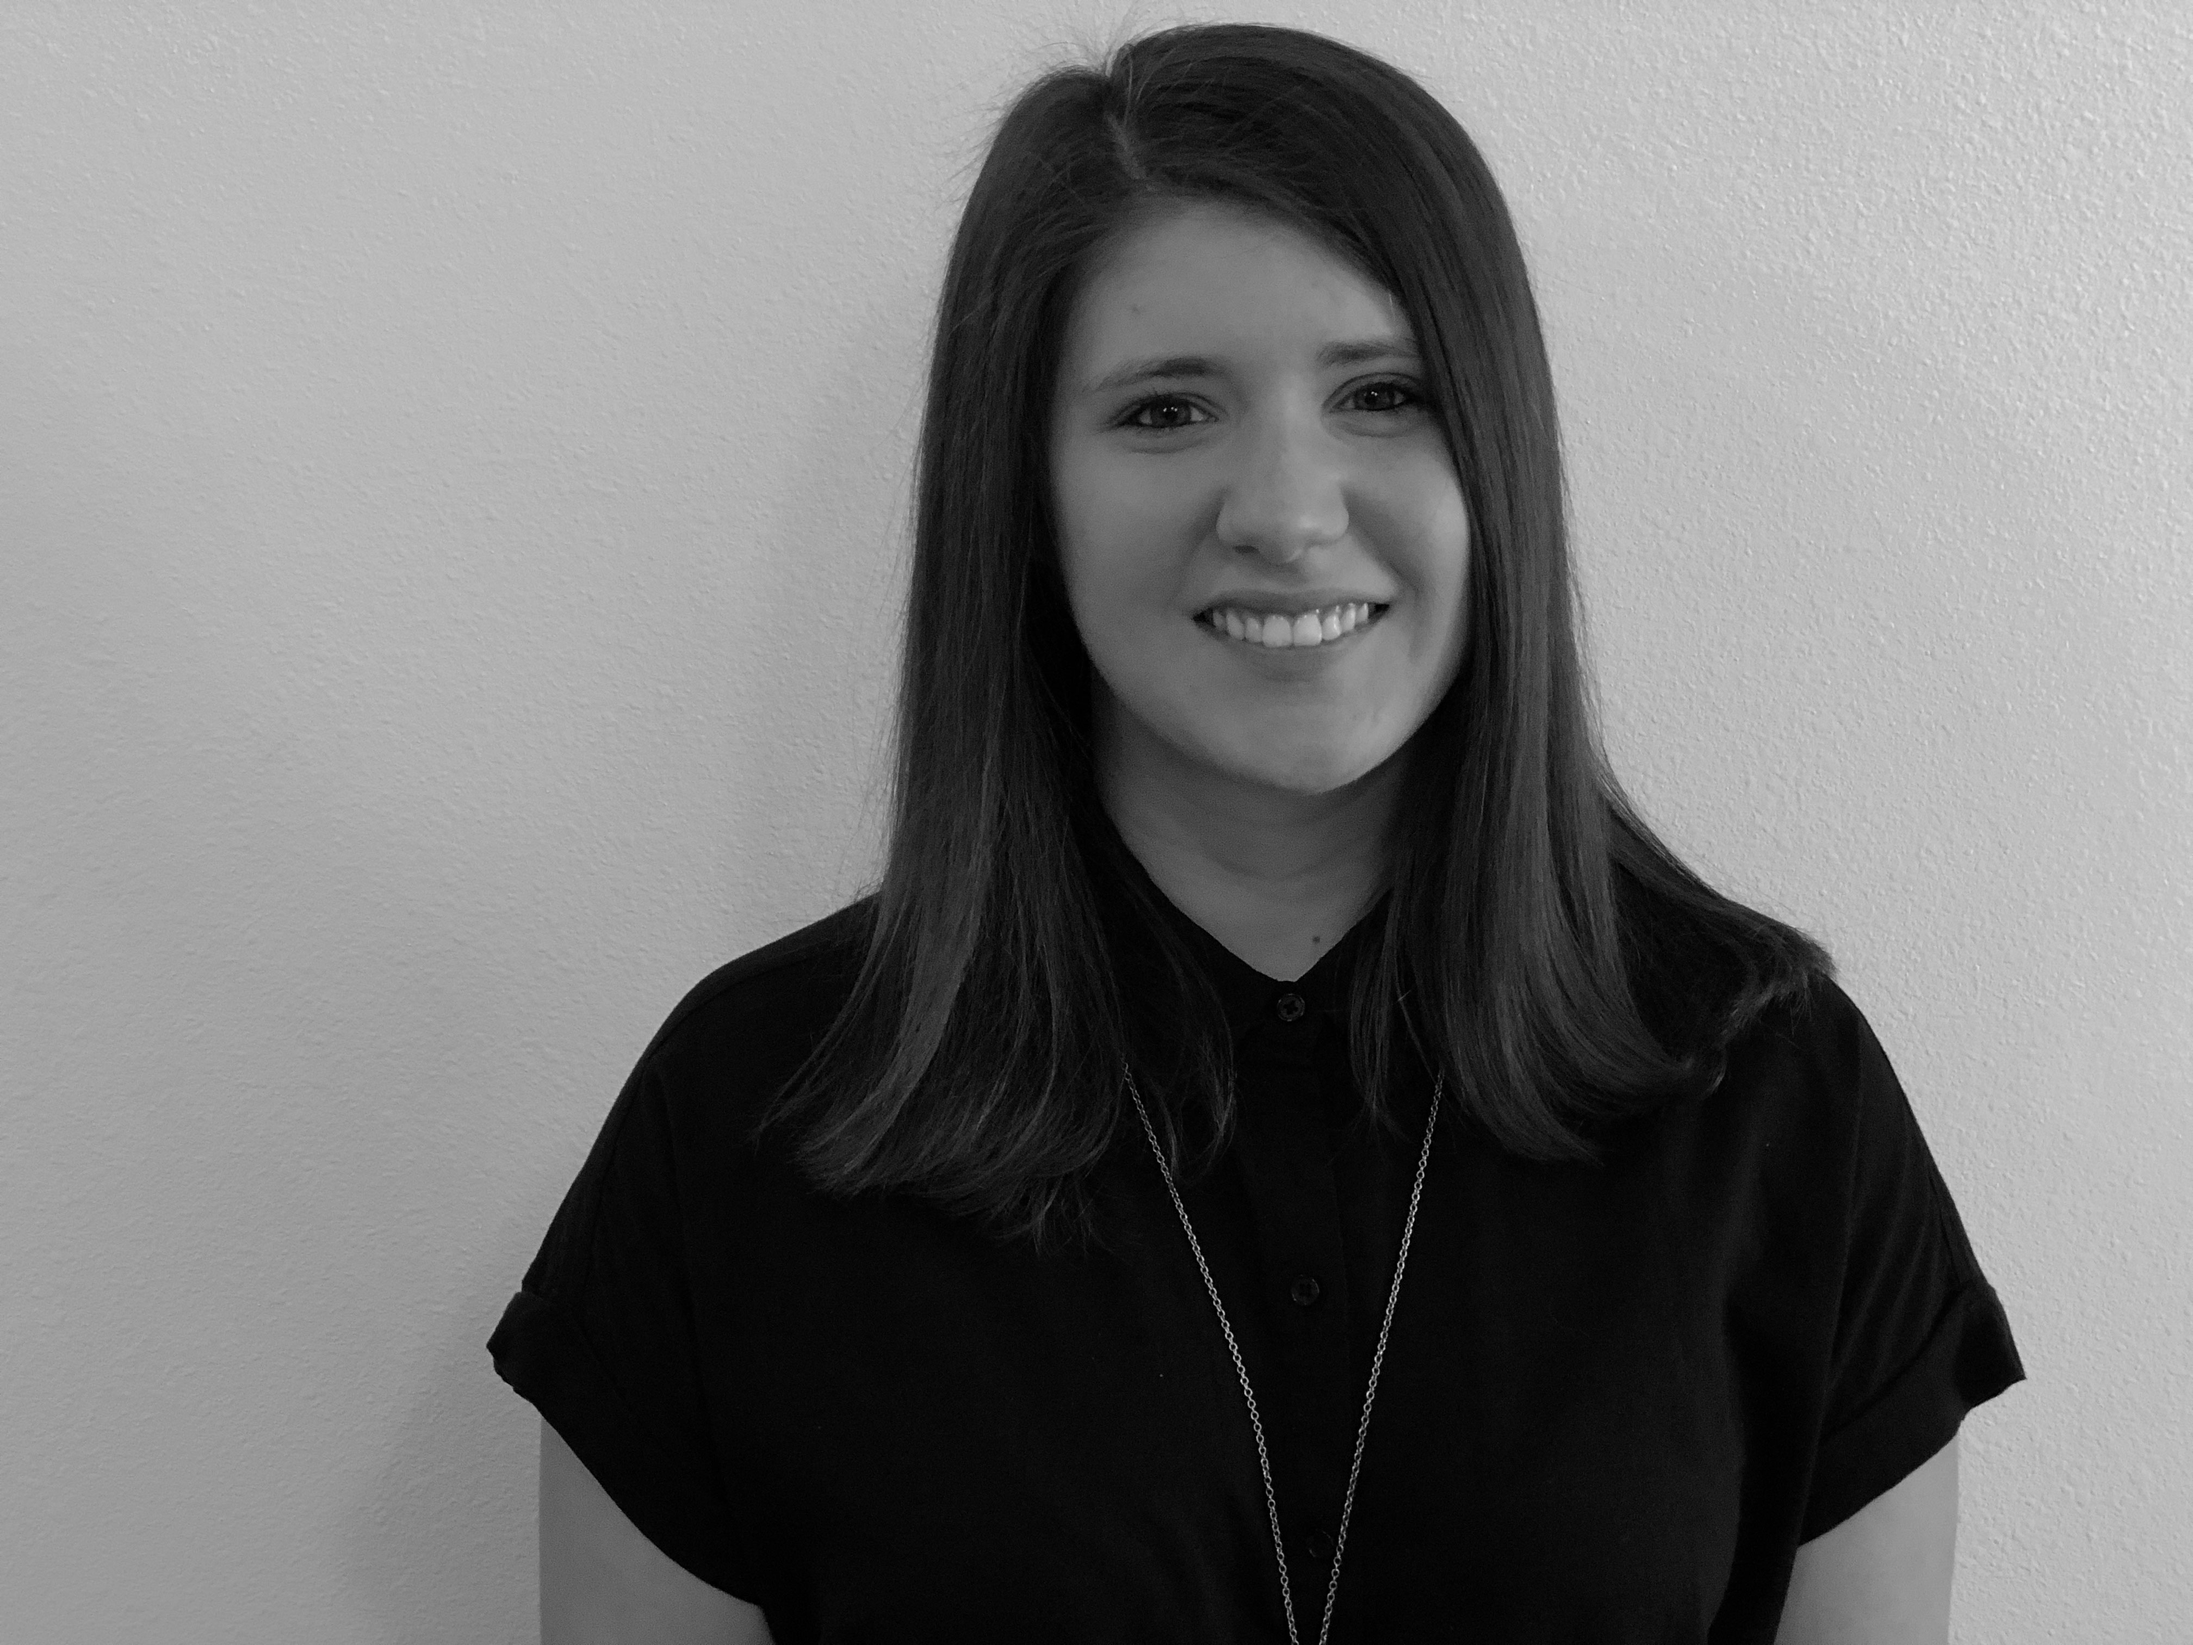
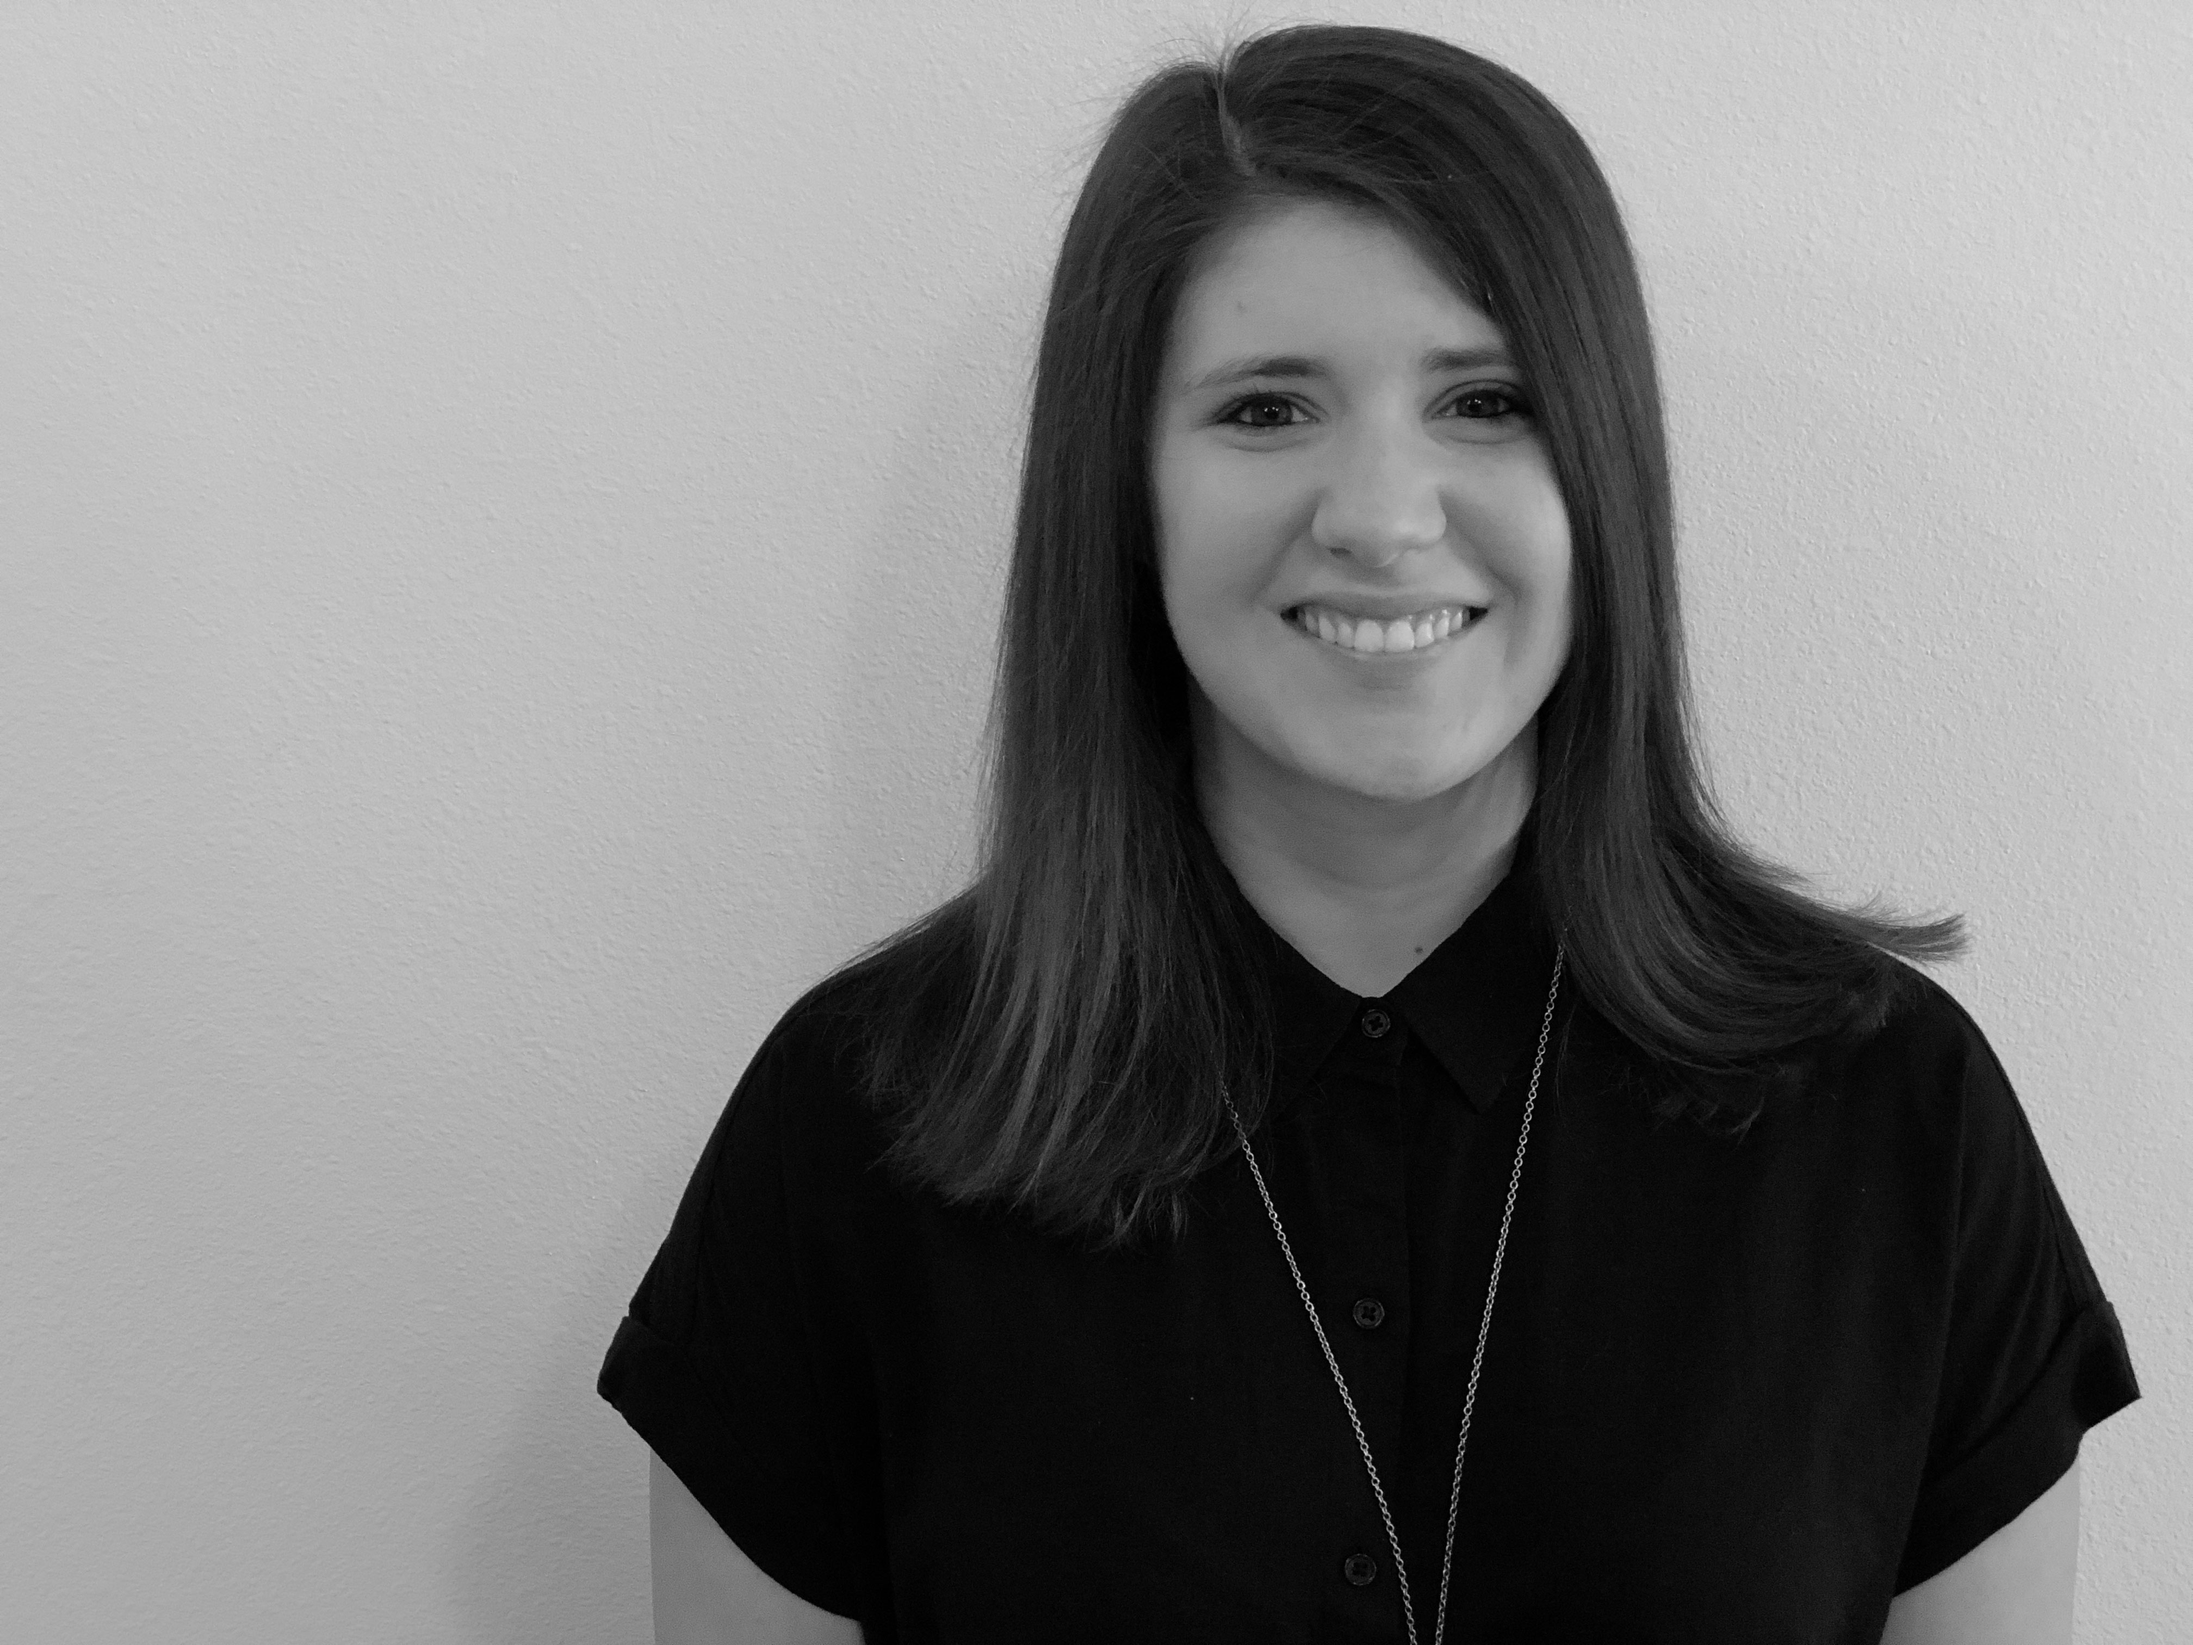
new about photo and changed all fonts to Montserrat

diff --git a/about.html b/about.html
@@ -98,89 +98,36 @@
     </div>
   </header>
 
-
-
-  <section id="hero" class="hero mobile-background" href="#hero">
+  <section id="about-hero" class="hero mobile-background" href="#hero">
     <div class="container blanket">
       <div class="row flex-container">
-        <div class="col-lg-12">
+        <div class="col-lg-7 col-md-7 col-sm-12">
           <div class="hero-text">
-            <h1 class="section-title">Haley Hankins <br> <span>Web Design</span></h1>
+            <h1 class="section-title">Hey!<span>I'm Haley.</span> </h1>
+            <!-- <p>I also have a bottom lip, despite what this image suggests.</p> -->
           </div>
         </div>
       </div>
     </div>
-    </div>
   </section>
 
-  <section id="about">
+  <section id="about-aboutPage">
     <div class="container about-box" data-aos="zoom-in">
-      <div class="row">
-        <div class="col-lg-12 box">
-          <h1>I'm Haley Hankins and I Design and Build Websites.</h1>
-        </div>
-      </div>
-    </div>
-  </section>
-
-  <section id="work">
-    <div class="container">
-      <h1>My Work</h1>
-      <div class="row">
-        <div class="col-lg-4">
-          <a href="pt.html"><img class="img-shrink" src="img/ptparenting-500.png" alt="Paul Tripp Parenting web page on multiple devices"></a>
-            <h2>Web Development + Landing Page Development</h2>
-        </div>
-        <div class="col-lg-4">
-          <a href="5tips.html"><img class="img-shrink" src="img/5tips-500.png" alt="Clint Gresham's 5 Tips landing page on multiple devices"></a>
-          <h2>Web Development + Landing Page Development</h2>
-        </div>
-        <div class="col-lg-4 wonk">
-          <a href="dates.html"><img class="img-shrink" src="img/5dates-500.png" alt="5 Dates web page on multiple devices"></a>
-          <h2>Web Development+ Landing Page Development</h2>
-        </div>
-      </div>
-      <div class="row">
-
-        <!-- <div class="col-lg-6">
-          <img src="img/" alt="">
-        </div> -->
-      </div>
-    </div>
-
-  </section>
-  <!-- <section id="about">
-    <div class="container about-box" data-aos="zoom-in">
-      <div class="row">
-        <div class="col-lg-12 box">
-          <h1>I also enjoy a good beer</h1>
-        </div>
-      </div>
-    </div>
-  </section> -->
-
-  <section id="form">
-    <div class="container">
-      <h3 class="section-title">Contact</h3>
       <div class="row">
         <div class="col-lg-12">
-          <p>Feel free to reach out! I look forward to hearing from you.</p>
-          <form data-netlify="true" method="POST">
-            <input class="name-input" type="text" name="name" placeholder="Your Name">
-            <div class="form-email">
-              <input type="email" name="email" placeholder="Your Email">
-            </div>
-            <div class="form-text-area">
-              <textarea name="message" placeholder="Your Message"></textarea>
-            </div>
-            <div class="cta-section">
-              <button class="btn-primary" type="submit">Submit</button>
-            </div>
-          </form>
+          <h1>Hey</h1>
         </div>
       </div>
     </div>
   </section>
+
+
+  <section id="insta">
+    <h1>My Instagram Feed</h1>
+    <script src='https://embedsocial.com/js/iframe.js'></script> <iframe style='border: 0; width: 100%; height: 100%;' scrolling=no src='https://embedsocial.com/facebook_album/pro_instagram/85be029f0c63ff663f9af5e24a5e897346efe0d7'></iframe><script>iFrameResize();</script>
+  </section>
+
+
 
   <section id="footer">
     <div class="flex-container">

diff --git a/style.css b/style.css
@@ -414,13 +414,13 @@ Mobile Menu
 
 #about h1 {
   color: white;
-  font-family: 'Lora', serif;
+  font-family: 'Montserrat', sans-serif;
   font-size: 40px;
 }
 #work h1 {
   text-align: center;
   margin-top: 20px;
-  font-family: 'Lora', serif;
+  font-family: 'Montserrat', sans-serif;
   font-size: 35px;
   letter-spacing: 3px;
   font-weight: 500;
@@ -439,7 +439,7 @@ Mobile Menu
 }
 
 #work h2 {
-  font-family: 'Lora', serif;
+  font-family: 'Montserrat', sans-serif;
   font-size: 20px;
   margin-top: 10px;
 }
@@ -459,7 +459,7 @@ Mobile Menu
   text-align: center;
   margin-top: 20px;
   margin-bottom: 20px;
-  font-family: 'Lora', serif;
+  font-family: 'Montserrat', sans-serif;
   font-size: 35px;
   letter-spacing: 3px;
   font-weight: 500;
@@ -467,7 +467,7 @@ Mobile Menu
 }
 
 #form p, .modal {
-  font-family: 'Lora', serif;
+  font-family: 'Montserrat', sans-serif;
   // font-size: 20px;
   color: #333333;
   font-weight: 400;
@@ -572,7 +572,63 @@ Mobile Menu
 }
 
 /* About Me CSS */
+  #about-hero {
+    background-image: url("img/about-img.jpg");
+    height: 900px;
+    background-position: top;
+    background-size: cover;
+    background-repeat: no-repeat;
+    background-attachment: fixed;
+    position: relative;
+    margin-top: -146px;
+    -webkit-background-size: cover;
+    -moz-background-size: cover;
+    -o-background-size: cover;
+  }
 
+  #about-hero .section-title {
+    text-align: left;
+    z-index: 10;
+    margin-top: 330px;
+    color: transparent !important;
+    -webkit-text-stroke: 1.5px #fff;
+    font-size: 90px;
+    font-family: "Montserrat", helvetica, sans-serif;
+    text-transform: uppercase;
+  }
+
+  #about-hero h1 span {
+    display: block;
+  }
+
+  #about-hero p {
+    color: #fff;
+    font-size: 15px;
+    line-height: 21px;
+  }
+  #about-aboutPage {
+    max-height: 700px;
+    display: flex;
+    justify-content: center;
+    align-items: center;
+    padding: 2em;
+    position: relative;
+    background: #252525;
+    margin: 0 auto;
+    width: 100%;
+    height: 700px;
+    color: #fff;
+  }
+  #about-aboutPage h1 {
+    margin-top: -300px;
+    color: white;
+    font-family: 'Montserrat', sans-serif;
+    font-size: 40px;
+}
+
+  #insta {
+    /* padding: 96px 60px; */
+  }
 
 /* PT Page CSS */
 #pt-hero {
